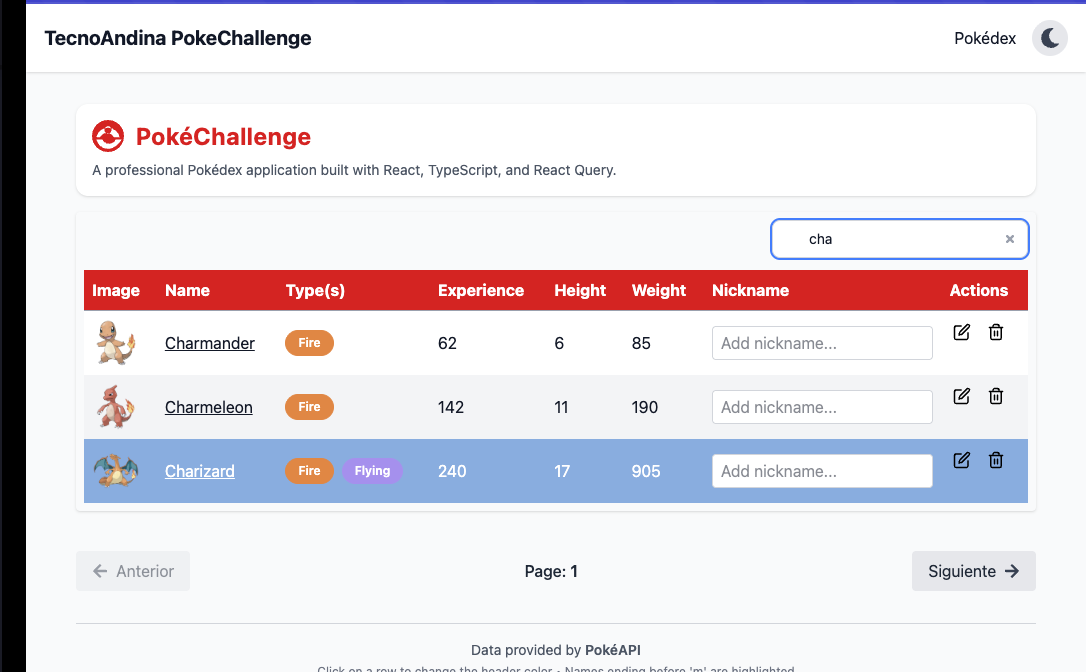
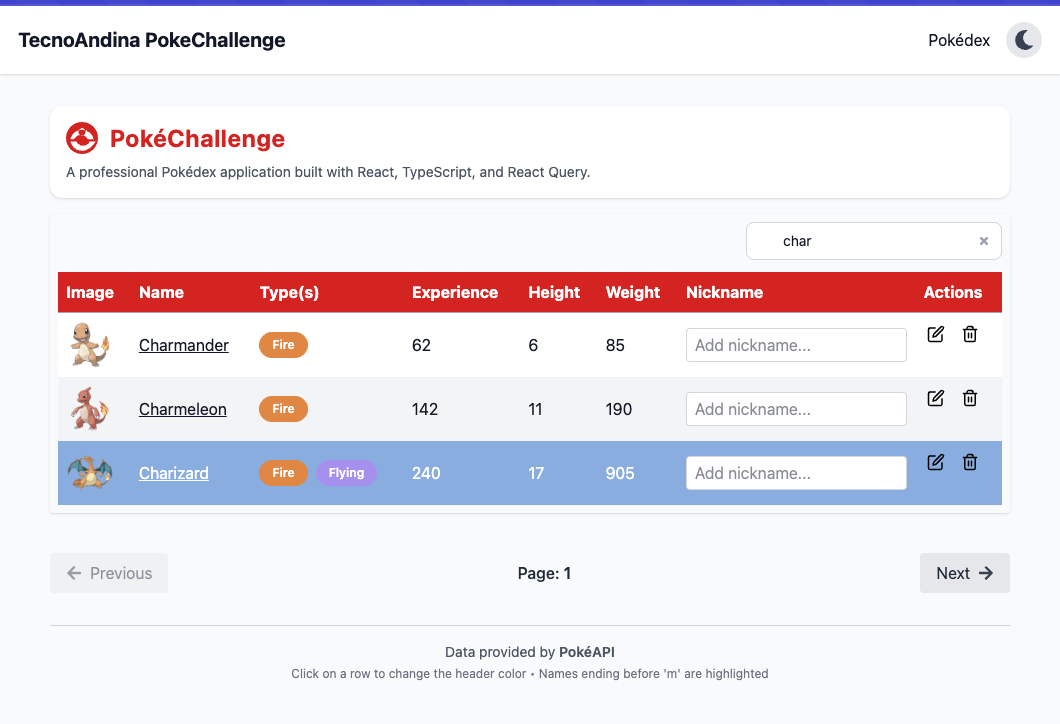
segundo commit

diff --git a/src/shared/components/Pagination.tsx b/src/shared/components/Pagination.tsx
@@ -24,7 +24,7 @@ export const Pagination = ({
                 disabled={disablePrev}
             >
                 <FaArrowLeft className="text-gray-700 dark:text-gray-200" />
-                <span className="hidden sm:inline text-gray-800 dark:text-gray-100">Anterior</span>
+                <span className="hidden sm:inline text-gray-800 dark:text-gray-100">Previous</span>
             </button>
 
             {/* Indicador de página */}
@@ -41,7 +41,7 @@ export const Pagination = ({
                 onClick={() => onChangePage(page + 1)}
                 disabled={disableNext}
             >
-                <span className="hidden sm:inline text-gray-800 dark:text-gray-100">Siguiente</span>
+                <span className="hidden sm:inline text-gray-800 dark:text-gray-100">Next</span>
                 <FaArrowRight className="text-gray-700 dark:text-gray-200" />
             </button>
         </div>
